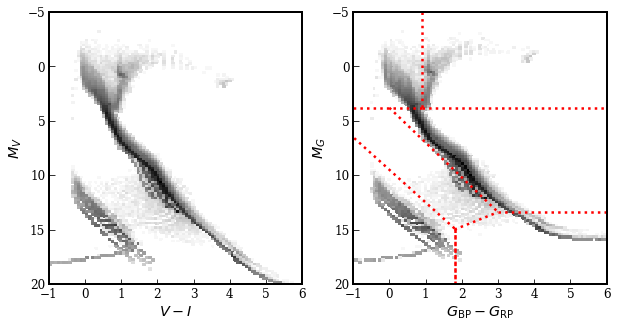
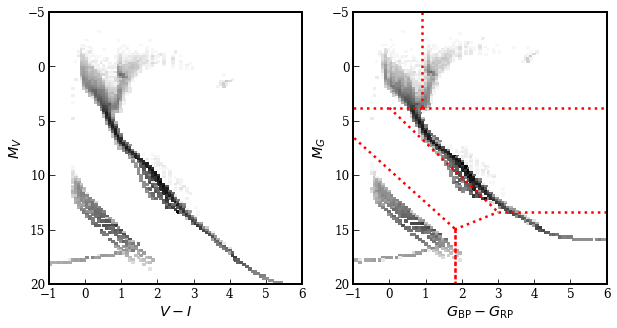
Colour transformations figures.

diff --git a/gcns/get_gums_binaries.py b/gcns/get_gums_binaries.py
@@ -25,7 +25,8 @@ multiplicity = {sys_id:multiplicity for sys_id,multiplicity  in zip(*np.unique(s
 
 # Get binaries
 binaries = {'system_id':[]}
-star_keys = ['mass','mag_g','mag_bp','mag_rp','mag_rvs','teff','logg','radius','vsini','variability_type','variability_amplitude','variability_period','variability_phase','spectral_type']
+# 'mag_g','mag_bp','mag_rp','vsini','spectral_type'
+star_keys = ['mass','primary_mean_absolute_v', 'v_i','mag_rvs','teff','logg','radius','spectral_type']
 system_keys = ['ra','dec','barycentric_distance','pmra','pmdec','radial_velocity','population','age','feh','alphafe']
 orbit_keys = ['semimajor_axis','eccentricity','inclination','longitude_ascending_node','orbit_period','periastron_date','periastron_argument']
 
